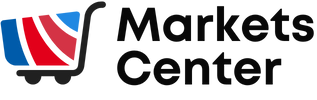
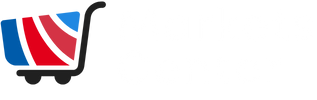
NavBar layout done.

Changed region(s): [[0.3691, 0.06, 0.9937, 0.42], [0.3691, 0.48, 0.9085, 0.87], [0.0568, 0.69, 0.2271, 0.72]]

diff --git a/src/components/NavBar/SearchBar.jsx b/src/components/NavBar/SearchBar.jsx
@@ -1,11 +1,36 @@
 import React from 'react';
-import { Stack, TextField, Button } from '@mui/material';
+import { Stack, TextField, IconButton, Paper } from '@mui/material';
+import { outlinedInputClasses, styled } from "@mui/material";
+import { Search } from '@mui/icons-material';
+
+const StyledTextField = styled(TextField)({
+    [`& .${outlinedInputClasses.root} .${outlinedInputClasses.notchedOutline}`]: {
+      borderColor: "white"
+    },
+    [`&:hover .${outlinedInputClasses.root} .${outlinedInputClasses.notchedOutline}`]: {
+      borderColor: "white"
+    },
+  });
 
 export default function NavBar(){
     return (
-        <Stack spacing={1} direction="row" size="medium">
-            <TextField variant='outlined'/>
-            <Button variant='contained' >Search</Button>
+        <Stack spacing={1} direction="row" size="large">
+            <Paper
+                component="form"
+                sx={{ p: '2px 4px', display: 'flex', alignItems: 'center', width: 700 }}
+            >
+            <StyledTextField  
+                placeholder="Buscar por nombre..."
+                size='small' 
+                color="white"
+                style = {{width: 700}}
+                inputProps={{ style: { color: '#005BAA' } }}
+            />
+            <IconButton variant='outlined' color='primary' >
+                <Search />
+            </IconButton>
+
+    </Paper>
         </Stack>
     )
 }

diff --git a/src/components/NavBar/NavBar.jsx b/src/components/NavBar/NavBar.jsx
@@ -27,7 +27,7 @@ export default function NavBar(){
                 <Stack direction="row">
                     <IconButton
                         variant="contained"
-                        color="secondary"
+                        color="white"
                         to="/usuer"
                     >
                         <AccountCircle fontSize="large"/>
@@ -35,7 +35,7 @@ export default function NavBar(){
 
                     <IconButton
                         variant="contained"
-                        color="secondary"
+                        color="white"
                         to="/usuer"
                     >
                         <ShoppingCart fontSize="large"/>

diff --git a/src/ThemeConfig.js b/src/ThemeConfig.js
@@ -9,6 +9,9 @@ export const theme = createTheme({
         secondary: {
           main: '#E2001A',
         },
+        white:{
+          main: '#F8F9FA'
+        },
         background: {
           default: '#F8F9FA',
         },
